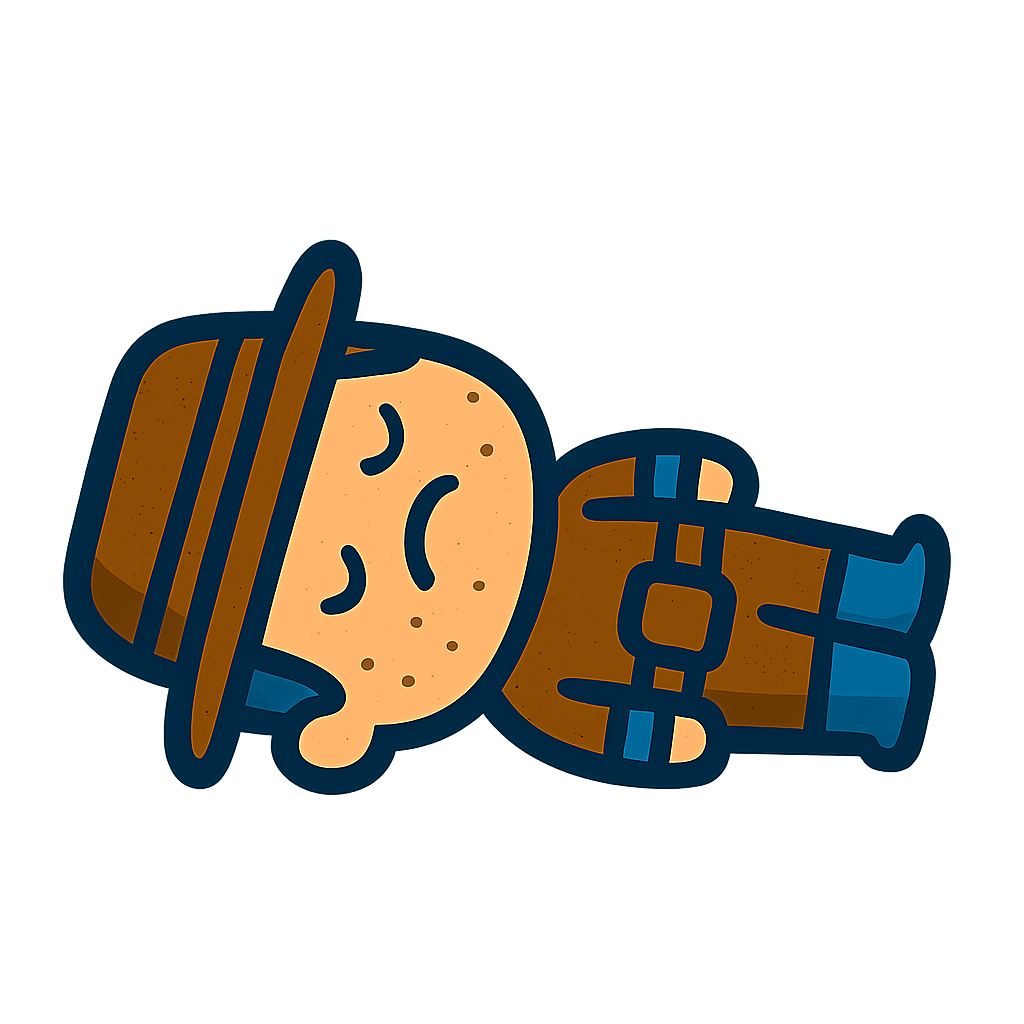
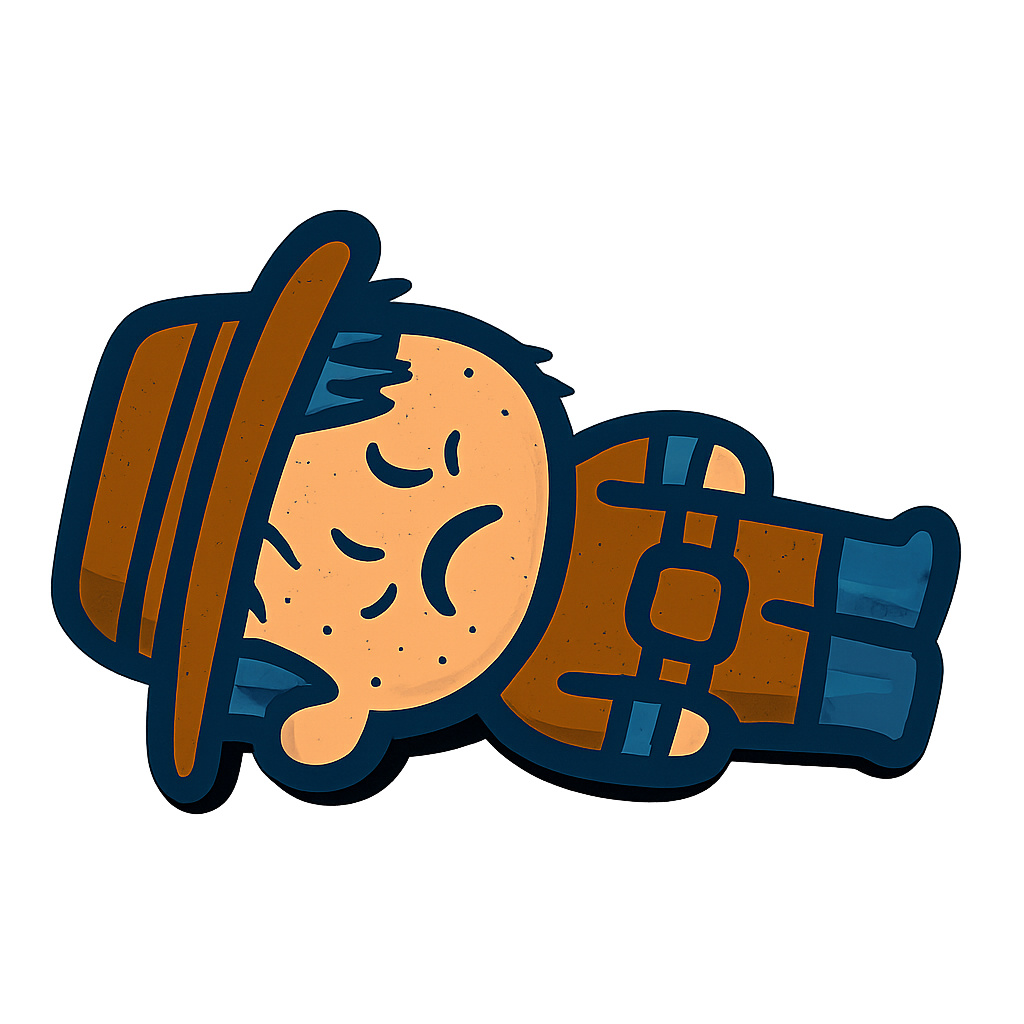
Update player assets and height setting
Replaced player_dead.png and player_hurt.png assets with new versions and increased PLAYER_HEIGHT from 90 to 120 in settings.py to reflect updated player dimensions.

Changed region(s): [[0.0312, 0.1875, 0.9375, 0.8125]]

diff --git a/airdrop_survival/src/settings.py b/airdrop_survival/src/settings.py
@@ -13,7 +13,7 @@ GREEN = (0, 255, 0)
 
 # 玩家设置
 PLAYER_WIDTH = 90
-PLAYER_HEIGHT = 90
+PLAYER_HEIGHT = 120
 PLAYER_SPEED = 5
 
 # Maximum health (number of hearts shown)
